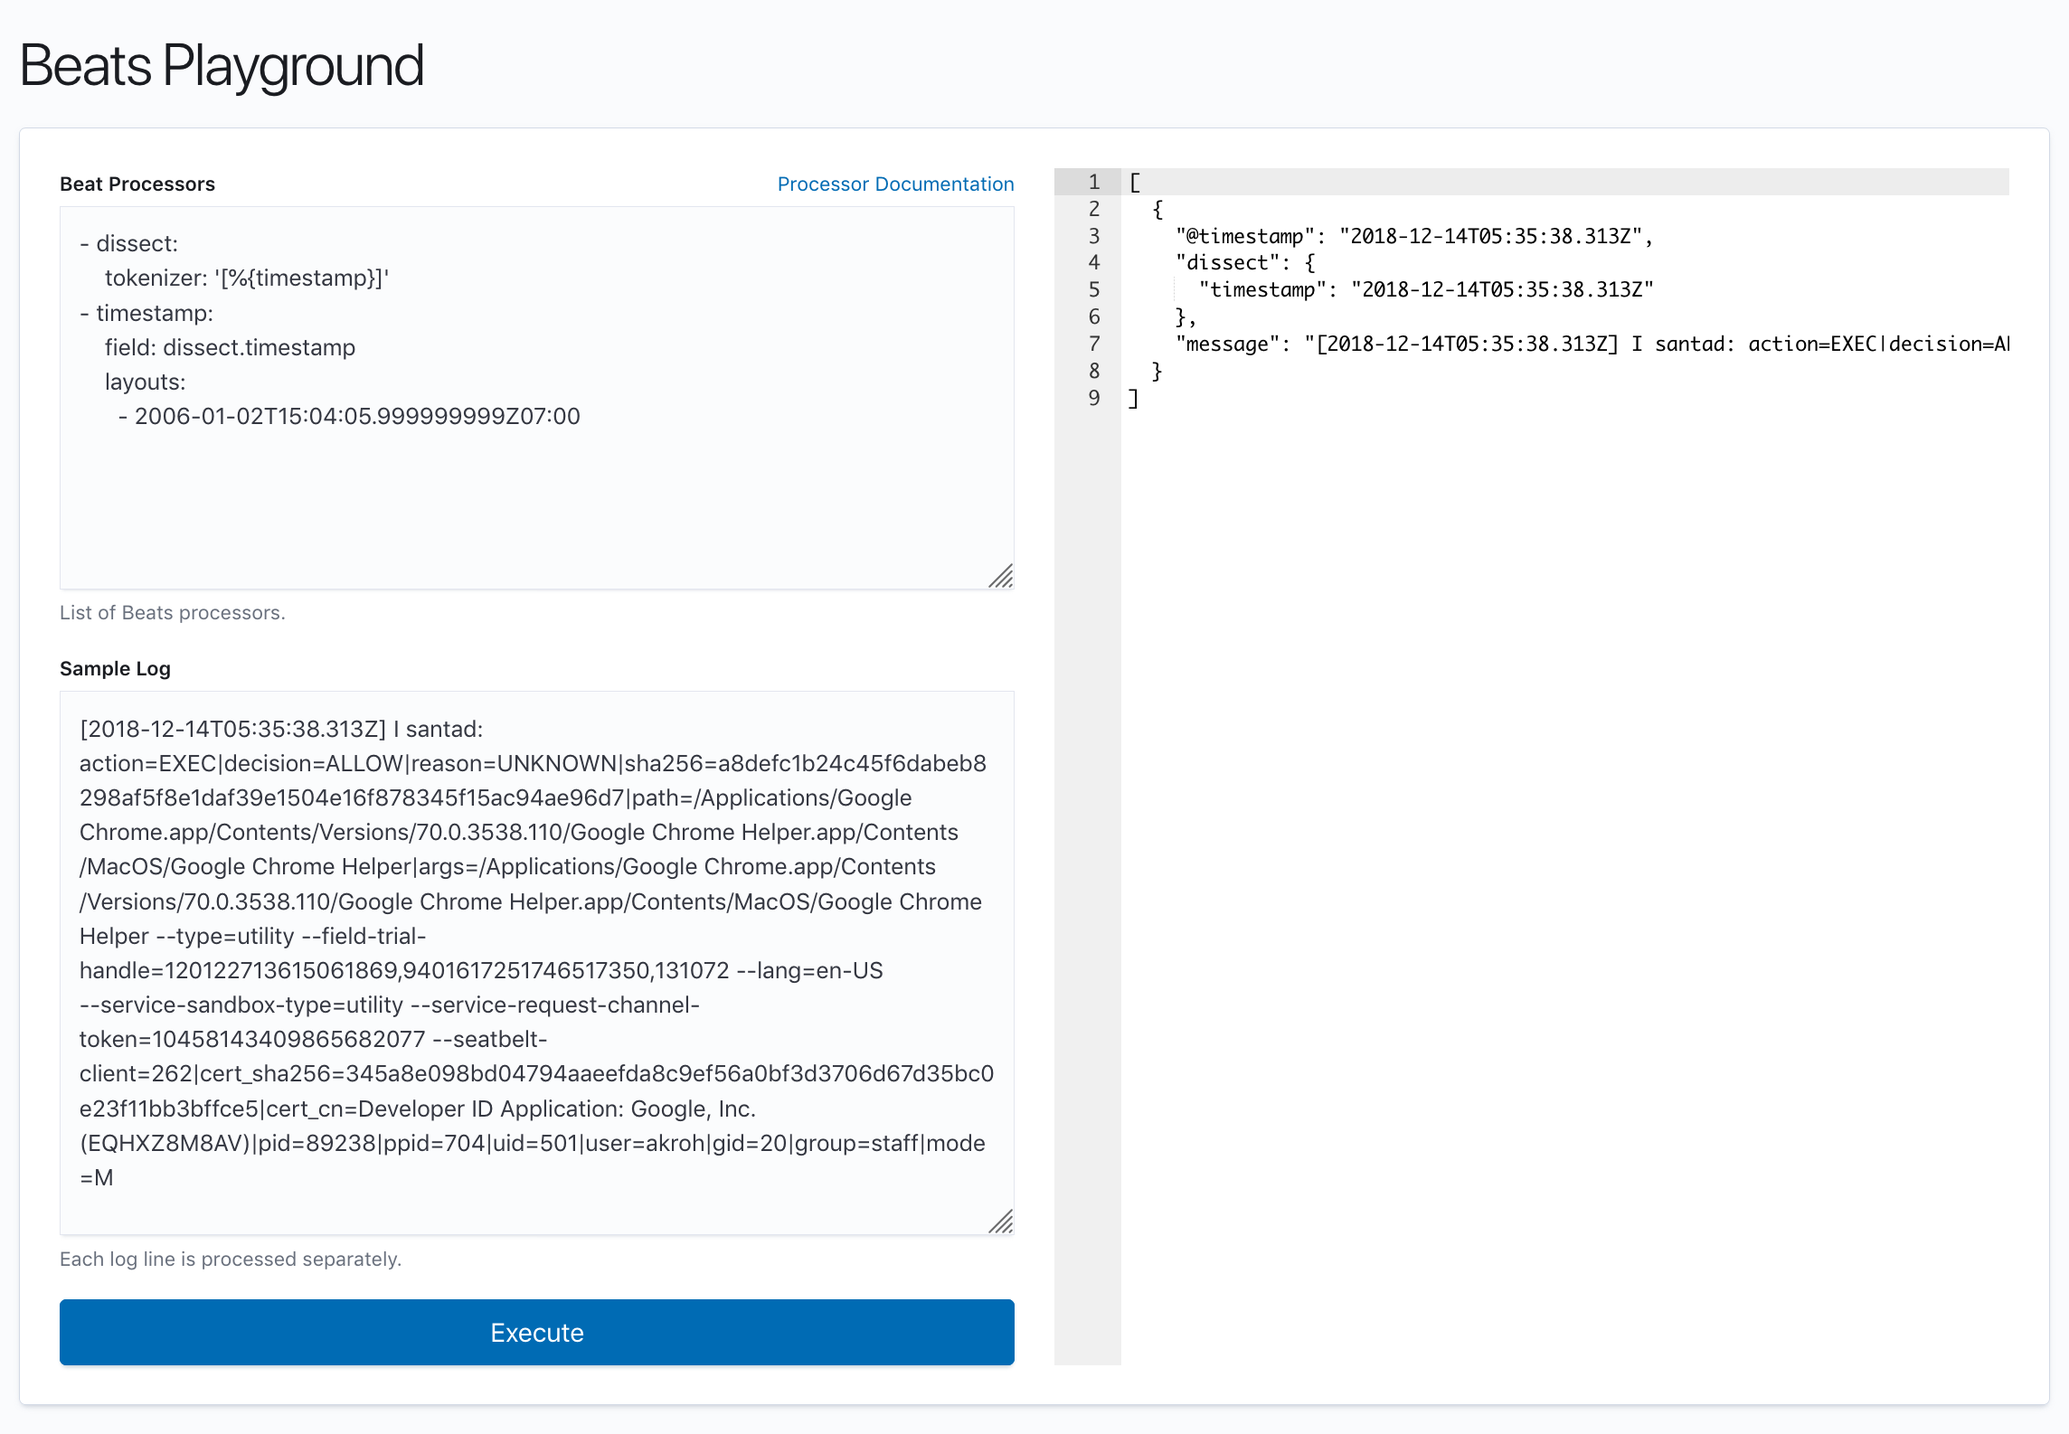
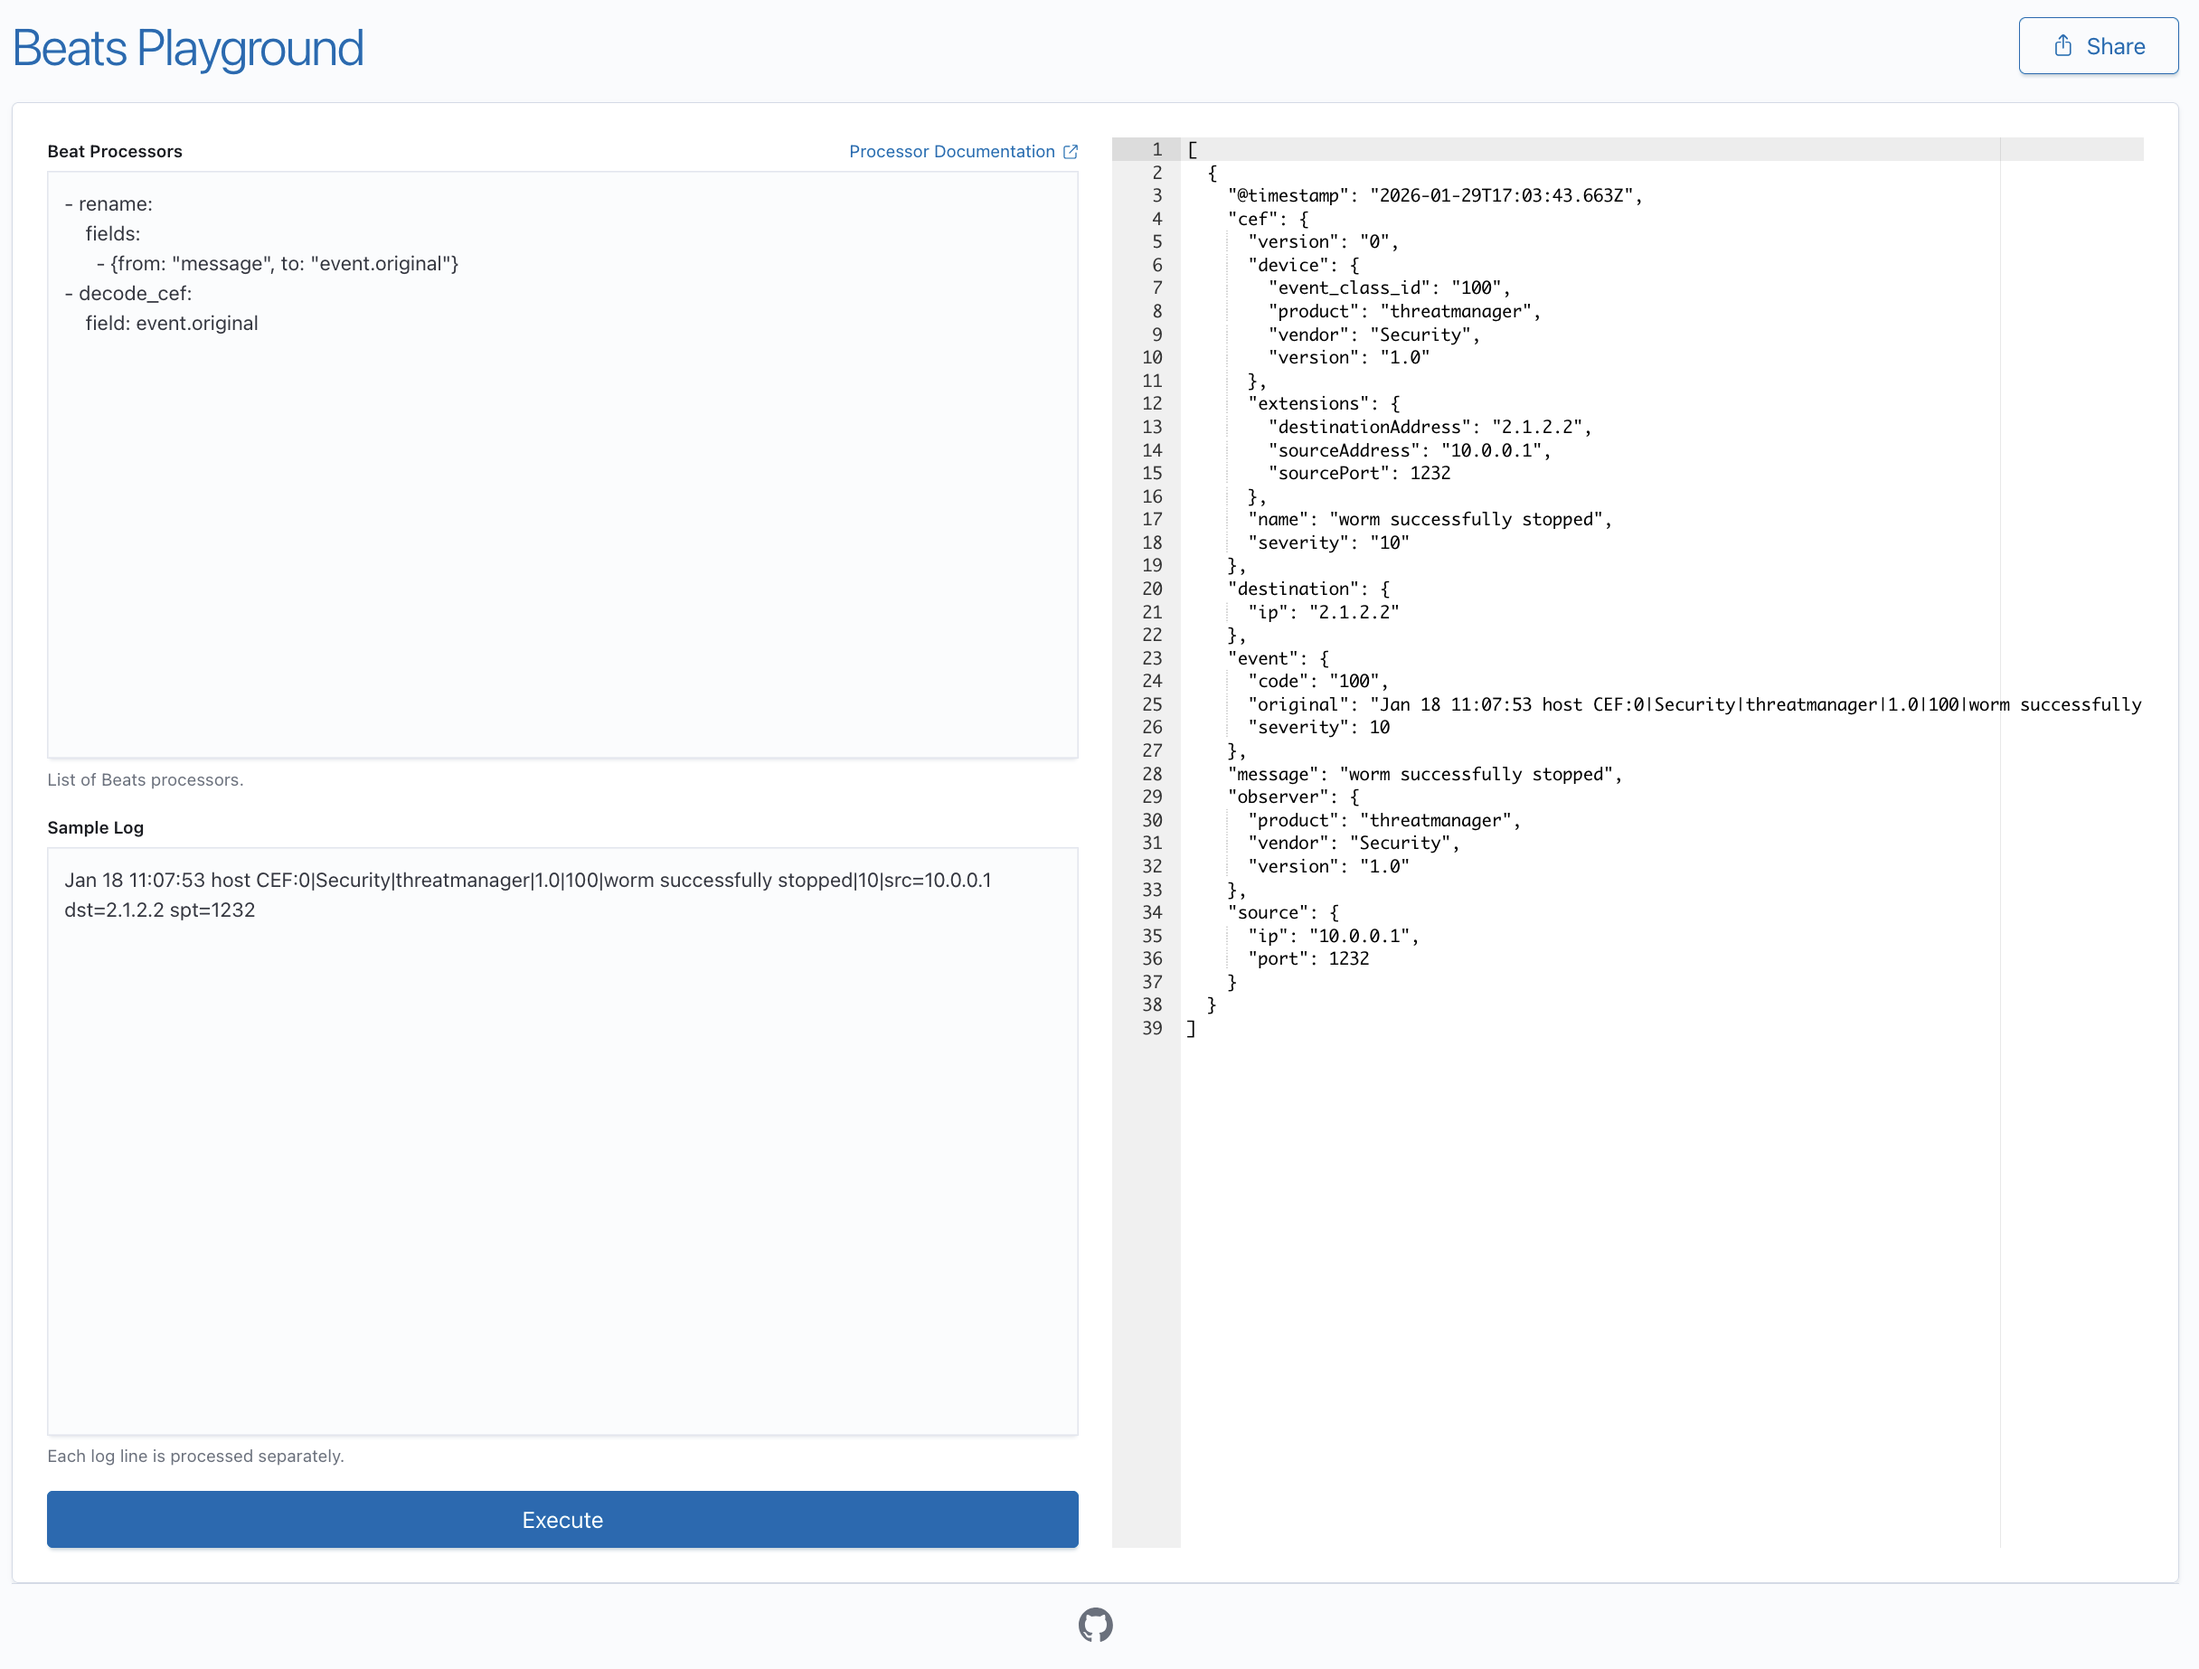
docs: document share button feature and URL encoding format
Explain how the Share button encodes state (JSON with p/l keys,
gzip compressed, base64 encoded) and how to decode shared URLs
using CyberChef or CLI tools.

diff --git a/docs/README.md b/docs/README.md
@@ -17,10 +17,35 @@ Because of browser limitations, processors that require OS resources
 `add_docker_metdata`, `add_host_metadata`, `add_process_metadata`, `dns`,
 `rate_limit`, `translate_sid`).
 
-It will load configurations and sample logs from URLs if you set the appropriate
-query parameters in the URL fragment (aka hash). It reads `load_processors`
-and `load_logs` then loads the content from those URLs. This can be used to share
-examples. The format is:
+### Sharing via Share Button
+
+Click the **Share** button to encode the current processor configuration and
+sample logs into the URL. The URL is automatically copied to your clipboard
+and can be shared with others. Note that the data is stored unencrypted in the
+URL.
+
+The state is encoded as a JSON object with the following keys:
+- `p` - processors (YAML string)
+- `l` - logs (text string)
+
+This JSON is compressed with gzip and then base64 encoded. The URL format is:
+
+`https://andrewkroh.github.io/beats-playground/#s=ENCODED_STATE`
+
+To decode a shared URL, you can use
+[CyberChef](https://gchq.github.io/CyberChef/#recipe=URL_Decode\(true\)From_Base64\('A-Za-z0-9%2B/%3D',true,false\)Gunzip\(\))
+or the command line:
+
+```bash
+pbpaste | base64 -D | gunzip
+```
+
+### Loading from External URLs
+
+Alternatively, you can load configurations and sample logs from external URLs
+by setting query parameters in the URL fragment (aka hash). It reads
+`load_processors` and `load_logs` then loads the content from those URLs. The
+format is:
 
 `http://localhost:8084/#?load_processors=PROCESSORS_URL&load_logs=LOGS_URL`
 
